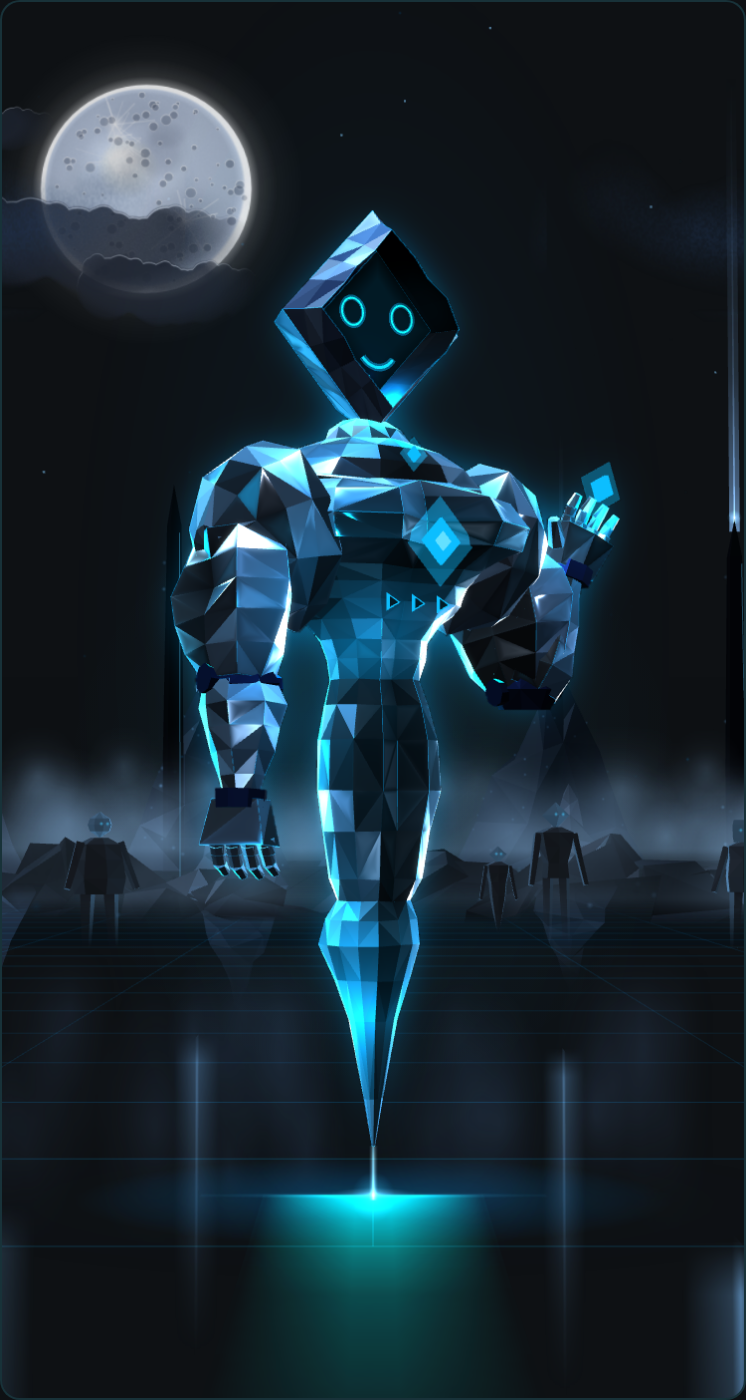
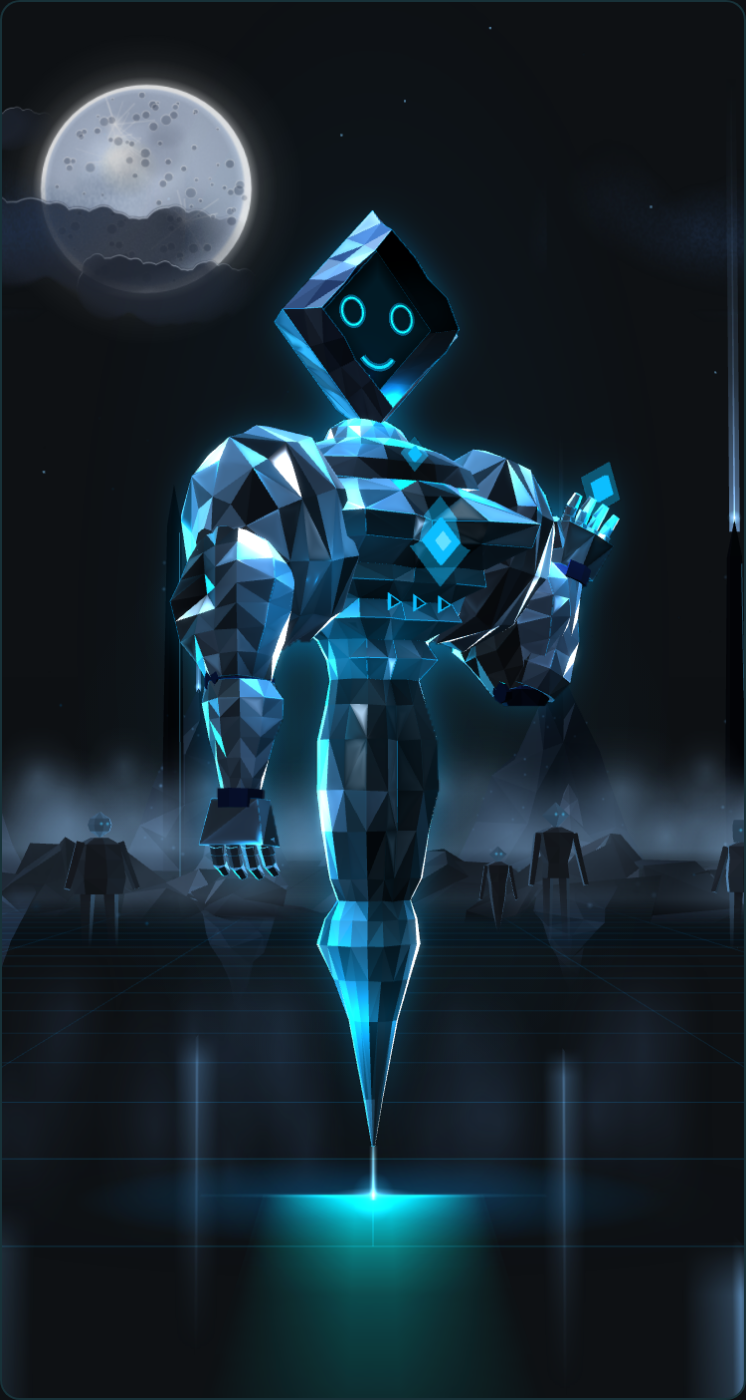
mrmah3d R105: capped and pumped muscle bellies — 18-side torso and 12-side limbs so pecs, blocks and bicep can be round; capped deltoid, peaked biceps and triceps, brachialis wedge, inset ab blocks, deeper insertions
Six grayscale increments judged as close-ups beside the reference's arm
and torso. The deltoid is a spherical cap (eight rings, a rounder fuller
belly that tucks under into the arm, a 0.22 anterior lobe over the pec,
0.12 grooves between the heads). The upper arm is twelve sides on seven
rings with the bicep and triceps as PEAKS (sin^1.6 / sin^1.4 bellies),
a 0.30 brachialis wedge, a 0.36 biceps/triceps groove, an under-delt
valley all the way round and elbow compression; the forearm is twelve
sides at three quarters of the upper arm's radius with peaked extensor
and flexor bellies, a 0.20 channel and wrist compression. The torso is
eighteen sides so the pec lobes are domes with a sternum trench (a lobe
on 14 sides was one flat facet), the upper pec rounds off toward the
clavicle, the abdominal blocks are 0.42 bulges against -0.06 inset
creases carrying a 0.80 cavity, the lats sweep (latK up to 0.46), the
traps 0.72, serratus relief, calf bellies 0.26, dome 0.55. Lobe heights
came DOWN as the sides went up — resolution was the fault, not
amplitude.

Tests 342/342 (three regexes loosened), verify 150/150. Grayscale front,
back and three-quarter for the male, front and back for the female, the
torso and shoulder-arm close-ups beside the reference, one platinum-wrap
check, a previous-vs-new sheet and the capped-muscle scores in
validation/mrmah3d/r105/.

Claude-Session: https://claude.ai/code/session_01PFdimckBkTJSzz58pBNFUm

Changed region(s): [[0.2158, 0.2764, 0.8016, 0.8293]]

diff --git a/mrmah3d/core/character/proportions.js b/mrmah3d/core/character/proportions.js
@@ -334,7 +334,7 @@ function chestShape(k) {
        is a mass with real front-to-back projection, and the sternum falls
        away between the two; the lats flare a little more under the arm. */
     var sternum = -lobe(a, 0, 0.38) * 0.360;   /* R103: deeper */
-    var pec = (lobe(a, 0.70, 0.52) + lobe(a, -0.70, 0.52)) * 0.520;   /* R101: a deeper shelf */
+    var pec = (lobe(a, 0.70, 0.55) + lobe(a, -0.70, 0.55)) * 0.600;   /* R105: a rounder, fuller belly */   /* R101: a deeper shelf */
     /* R97: the lats — the ribcage's side planes swell so the V reads from
        the front AND the back; the back itself is flattened, grooved down the
        spine and carries a pair of erector / lat planes either side of it. */
@@ -344,7 +344,7 @@ function chestShape(k) {
     var erector = (lobe(a, Math.PI - 0.42, 0.30) + lobe(a, -Math.PI + 0.42, 0.30)) * 0.100;   /* R102: 0.06 -> 0.10 */
     /* R102: the pec / deltoid junction and the outer pec insertion — a groove at
        the armpit line so the pec ends in shadow against the shoulder */
-    var insertion = -(lobe(a, 1.22, 0.16) + lobe(a, -1.22, 0.16)) * 0.030;   /* R103: the delt now overlaps the pec; a deep cut here read as a socket */
+    var insertion = -(lobe(a, 1.22, 0.20) + lobe(a, -1.22, 0.20)) * 0.080;   /* R103: the delt now overlaps the pec; a deep cut here read as a socket */
     return 1 + (sternum + pec + lat + back + spine + erector + insertion) * k;
   };
 }
@@ -368,15 +368,16 @@ function coreShape(k, rectusK, latK) {
   var rk = rectusK == null ? 0.120 : rectusK;
   var lk = latK == null ? 0 : latK;
   return function (a) {
-    var linea = -lobe(a, 0, 0.34) * 0.300;   /* R100: a deeper channel; R102: deeper */
+    var linea = -lobe(a, 0, 0.34) * 0.340;   /* R100: a deeper channel; R102: deeper */
     var rectus = (lobe(a, 0.52, 0.44) + lobe(a, -0.52, 0.44)) * rk;
     var oblique = (lobe(a, 1.20, 0.48) + lobe(a, -1.20, 0.48)) * 0.080;
     var obliqueGroove = -(lobe(a, 0.98, 0.16) + lobe(a, -0.98, 0.16)) * 0.100 * (lk > 0 ? 1 : 0.5);   /* R102 */
     var lat = (lobe(a, Math.PI / 2 + 0.22, 0.58) + lobe(a, -Math.PI / 2 - 0.22, 0.58)) * lk;
+    var serratus = (lobe(a, 1.02, 0.13) + lobe(a, -1.02, 0.13)) * 0.070 * Math.min(1, lk / 0.3);   /* R105: the teeth under the pec, as relief */
     var back = lobe(a, Math.PI, 0.95) * -0.085;
     var spine = -lobe(a, Math.PI, 0.20) * 0.150;   /* R102: 0.06 -> 0.11 */
     var erector = (lobe(a, Math.PI - 0.36, 0.28) + lobe(a, -Math.PI + 0.36, 0.28)) * 0.080;   /* R102: 0.045 -> 0.08 */
-    return 1 + (linea + rectus + oblique + obliqueGroove + lat + back + spine + erector) * k;
+    return 1 + (linea + rectus + oblique + obliqueGroove + lat + serratus + back + spine + erector) * k;
   };
 }
 
@@ -568,7 +569,7 @@ function calfShape(k) {
   return function (a) {
     var ridge = lobe(a, 0, 0.26) * 0.060;
     var shin = -(lobe(a, 0.55, 0.28) + lobe(a, -0.55, 0.28)) * 0.060;
-    var bellies = (lobe(a, Math.PI - 0.62, 0.50) + lobe(a, -Math.PI + 0.62, 0.50)) * 0.200;
+    var bellies = (lobe(a, Math.PI - 0.62, 0.50) + lobe(a, -Math.PI + 0.62, 0.50)) * 0.260;
     var cleft = -lobe(a, Math.PI, 0.18) * 0.080;
     return 1 + (ridge + shin + bellies + cleft) * k;
   };
@@ -615,7 +616,7 @@ function clavicleShape(k) {
   return function (a) {
     var hollow = -lobe(a, 0, 0.60) * 0.160;
     var collar = (lobe(a, 0.95, 0.50) + lobe(a, -0.95, 0.50)) * 0.150;
-    var traps = (lobe(a, Math.PI - 0.7, 0.60) + lobe(a, -Math.PI + 0.7, 0.60)) * 0.600;   /* R99: the traps climb to carry the head; R100: higher still; R101: undeniable */
+    var traps = (lobe(a, Math.PI - 0.7, 0.60) + lobe(a, -Math.PI + 0.7, 0.60)) * 0.720;   /* R99: the traps climb to carry the head; R100: higher still; R101: undeniable */
     /* R97: a SHOULDER SHELF at the sides, so the torso's own line runs out
        under the deltoid cap and the cap grows out of the trapezius instead of
        sitting on it — the trap -> delt continuity the brief asks for. */
@@ -678,7 +679,7 @@ export var TORSO = {
      averaged away entirely — the shaping was there in the numbers and absent
      from the mesh. 14 puts a vertex within 0.22 radians of every lobe centre
      for the cost of two more columns of faces. */
-  sides: 14,
+  sides: 18,   /* R105: a pec dome, a rectus block and an oblique each need vertices to be ROUND; at 14 a lobe was one flat facet */
   /* A SMALL lift away from the black end — a third of the head's, half the
      arms'. The body is the one part that should keep the black-heavy weighting,
      because that is what makes it read as a dark crystalline mass. But with the
@@ -880,7 +881,7 @@ export var TORSO = {
       shape: quadShape(0.90), zoneAt: quadZone(0) },
     /* R97: the quad's SHELF — the mass rounds over under the belt instead
        of meeting it in a straight line, which is the muscle-belly read. */
-    { y: 1.400, w: 0.160, d: 0.146, facet: 0.0050, crystal: 0.0300, crystalY: 0.0080, hero: 0.10,
+    { y: 1.400, w: 0.156, d: 0.142, facet: 0.0050, crystal: 0.0300, crystalY: 0.0080, hero: 0.10,
       shape: quadShape(0.60), zoneAt: quadZone(0) },
     /* THE BELT — the waist. The deepest concavity on the character, and the
        line that separates the torso from the single quad. Re-measured on the
@@ -904,15 +905,15 @@ export var TORSO = {
        nearly doubled on the two rings above the pinch — the lat is a
        silhouette driver, not a flank detail. */
     { y: 1.545, w: 0.160, d: 0.144, facet: 0.0040, crystal: 0.0220, crystalY: 0.0050,
-      shape: coreShape(1.0, 0.17), hero: 0.08, zoneAt: coreZone(1) },
-    { y: 1.605, w: 0.180, d: 0.160, facet: -0.0040, crystal: 0.0220, crystalY: 0.0050,
-      shape: coreShape(1.0, 0.08, 0.04), hero: 0.03, zoneAt: coreZone(1), cav: 0.40 },   /* R102: abdominal crease */
-    { y: 1.665, w: 0.212, d: 0.182, facet: 0.0040, crystal: 0.0240, crystalY: 0.0050,
-      shape: coreShape(0.95, 0.17, 0.18), hero: 0.08, zoneAt: coreZone(2) },
-    { y: 1.725, w: 0.280, d: 0.220, facet: -0.0040, crystal: 0.0240, crystalY: 0.0050,
-      shape: coreShape(0.90, 0.08, 0.32), hero: 0.03, zoneAt: coreZone(2), cav: 0.40 },   /* R102: abdominal crease */
+      shape: coreShape(1.0, 0.42), hero: 0.08, zoneAt: coreZone(1) },   /* R105: BLOCKS — bulge 0.42 against an inset crease (-0.06) */
+    { y: 1.605, w: 0.188, d: 0.164, facet: -0.0040, crystal: 0.0220, crystalY: 0.0050,
+      shape: coreShape(1.0, -0.06, 0.04), hero: 0.03, zoneAt: coreZone(1), cav: 0.80 },   /* R102: abdominal crease */
+    { y: 1.665, w: 0.230, d: 0.190, facet: 0.0040, crystal: 0.0240, crystalY: 0.0050,
+      shape: coreShape(0.95, 0.42, 0.26), hero: 0.08, zoneAt: coreZone(2) },
+    { y: 1.725, w: 0.292, d: 0.226, facet: -0.0040, crystal: 0.0240, crystalY: 0.0050,
+      shape: coreShape(0.90, -0.06, 0.40), hero: 0.03, zoneAt: coreZone(2), cav: 0.80 },   /* R102: abdominal crease */
     { y: 1.780, w: 0.306, d: 0.240, facet: 0.0040, crystal: 0.0260, crystalY: 0.0060,
-      shape: coreShape(0.85, 0.16, 0.42), hero: 0.08, zoneAt: coreZone(3) },
+      shape: coreShape(0.85, 0.42, 0.46), hero: 0.08, zoneAt: coreZone(3) },
     /* R97 — THE LOWER PEC TURN: a crease ring where the chest shelf ends and
        a belly ring above it, so the pectoral is a mass with a lower edge
        that falls into shadow rather than a plane that fades into the abs. */
@@ -922,7 +923,7 @@ export var TORSO = {
        comes in so the shelf overhangs it, and that ring takes its own dark
        zone (pecUnderZone). */
     { y: 1.830, w: 0.304, d: 0.236, facet: -0.0060, crystal: 0.0300, crystalY: 0.0080,
-      shape: chestShape(0.62), zoneAt: pecUnderZone, cav: 0.50 },   /* R103: the under-pec crease pulls IN (d 0.252 -> 0.232) so the shelf overhangs it; the lat block is wider */   /* R102: 0.272 -> 0.282, the top of the lat block; the under-pec crease is a cavity */
+      shape: chestShape(0.62), zoneAt: pecUnderZone, cav: 0.60 },   /* R103: the under-pec crease pulls IN (d 0.252 -> 0.232) so the shelf overhangs it; the lat block is wider */   /* R102: 0.272 -> 0.282, the top of the lat block; the under-pec crease is a cavity */
     /* R103 — THE CHEST PROJECTS: the chest rings' front-to-back radius rises
        another 8% and the pec lobe with it, so the pectoral is a shelf that
        overhangs the crease ring under it. */
@@ -938,24 +939,24 @@ export var TORSO = {
        shoulder line at 2.120 the slope is 41 degrees, the cap's crest meets
        it, and the neck is embedded in a rising upper torso. The head does
        not move. */
-    { y: 2.050, w: 0.330, d: 0.322, facet: -0.0045, crystal: 0.0300, crystalY: 0.0060,
-      shape: chestShape(0.80), hero: 0.40, zoneAt: pecZone(1) },
+    { y: 2.050, w: 0.330, d: 0.290, facet: -0.0045, crystal: 0.0300, crystalY: 0.0060,
+      shape: chestShape(0.45), hero: 0.40, zoneAt: pecZone(1) },   /* R105: the upper pec ROUNDS OFF toward the clavicle (0.80 -> 0.62) instead of running flat into it */
     /* R100 — the groove under the clavicle (subclavicleShape): its own dark,
        uncoated zone, so the collarbone above it reads as a bar with shadow
        beneath. */
-    { y: 2.100, w: 0.328, d: 0.262, facet: 0.0040, crystal: 0.0200, crystalY: 0.0040,
+    { y: 2.100, w: 0.328, d: 0.250, facet: 0.0040, crystal: 0.0200, crystalY: 0.0040,
       shape: subclavicleShape(1.0), hero: 0.20, zoneAt: pecZone(1), coat: 0.55 },
     /* THE SHOULDER LINE — collarbones across the front, trapezius behind.
        R100: the thin band just under it is the groove's dark zone, so the
        collarbone reads as a bar with a hairline of shadow beneath — not a
        stripe across the chest. */
-    { y: 2.120, w: 0.330, d: 0.252, facet: 0.0055, crystal: 0.0340, crystalY: 0.0060,
+    { y: 2.120, w: 0.330, d: 0.240, facet: 0.0055, crystal: 0.0340, crystalY: 0.0060,
       shape: clavicleShape(1.0), dip: 0.030, hero: 0.32, zoneAt: subclavicleZone, coat: 0.30 },   /* R99: the shelf blew white; the godform reference's clavicle is dark under a lit shoulder */
     /* R100 — THE TRAPEZIUS RING: between the shoulder line and the neck's
        base, so the traps rise diagonally toward the neck across two bands
        instead of one steep step, with the trap lobes at full strength.
        R103: halfway up the 41-degree slope. */
-    { y: 2.165, w: 0.280, d: 0.222, facet: -0.0050, crystal: 0.0260, crystalY: 0.0050,
+    { y: 2.165, w: 0.300, d: 0.230, facet: -0.0050, crystal: 0.0260, crystalY: 0.0050,
       shape: clavicleShape(0.85), hero: 0.04, zoneAt: trapZone, coat: 0.12 },   /* R101: deeper behind, the upper back's thickness */   /* a slope, not a shelf: first cut at 2.190 / 0.282 drew a flat ledge */
     /* THE CROWN — the upper chest rising beside the neck to meet the head.
 
@@ -1201,7 +1202,7 @@ export var ARMS = {
     elbow: [-0.585, 1.455, 0.10],   /* R103: the reference's lowered arm hangs STRAIGHT and close — elbow in, shorter */
     wrist: [-0.610, 1.105, 0.14],
     upperRadius: 0.150,   /* R103: 0.160 -> 0.150, the arm was as wide as the lat at the elbow */
-    foreRadius: 0.124,
+    foreRadius: 0.112,   /* R105: the reference forearm is three quarters of the upper arm */
     wristRadius: 0.074
   },
   left: {                         /* viewer's RIGHT — the raised arm */
@@ -1219,7 +1220,7 @@ export var ARMS = {
     elbow: [0.565, 1.465, 0.11],
     wrist: [0.720, 1.860, 0.15],
     upperRadius: 0.150,   /* R103: 0.160 -> 0.150, the arm was as wide as the lat at the elbow */
-    foreRadius: 0.124,
+    foreRadius: 0.112,   /* R105: the reference forearm is three quarters of the upper arm */
     wristRadius: 0.074
   },
 
@@ -1294,7 +1295,7 @@ export var ARMS = {
        clearly narrower at the joint, which is what makes the elbow read as a
        hinge between two masses rather than a bend in a pipe. */
     upper: function (t) {   /* R104: swell 0.28 -> 0.20, the arm hangs as a column from the front; the bellies read in the three-quarter */
-      return 0.92 + Math.sin(Math.pow(t, 0.85) * Math.PI) * 0.20 - t * 0.08;
+      return 0.92 + Math.pow(Math.sin(Math.pow(t, 0.85) * Math.PI), 1.3) * 0.24 - t * 0.08;   /* R105: a sharper peak */
     },
     /* Picks up close to where the upper arm ended — a step at the elbow reads
        as an error rather than as a joint — then swells just below it and tapers
@@ -1326,8 +1327,8 @@ export var ARMS = {
        limbSideDirection); the lateral tricep ridge and the radial forearm
        ridge sit on the OUTER side, which is -inner. */
     upper: function (t, d, inner) {
-      var belly = Math.sin(Math.pow(t, 0.82) * Math.PI);
-      var rear = Math.sin(Math.pow(t, 1.30) * Math.PI);
+      var belly = Math.pow(Math.sin(Math.pow(t, 0.82) * Math.PI), 1.6);   /* R105: a PEAK, not a broad swell — the bicep is a belly under tension */
+      var rear = Math.pow(Math.sin(Math.pow(t, 1.30) * Math.PI), 1.4);
       var outer = -(inner || 1);
       /* R97: BELLIES, not bulges. The bicep peaks at a third of the way
          down at nearly a third of the radius, the tricep — broader, lower —
@@ -1338,7 +1339,7 @@ export var ARMS = {
          its long-head fullness and gains a LATERAL-HEAD ridge on the outer
          arm, the horseshoe's outer arm converging toward the elbow. */
       var bicep = bump(d, 0, 0.62) * 0.520 * belly;   /* R101: the male standard — a fuller belly */
-      var tricep = bump(d, Math.PI, 1.10) * 0.460 * rear;   /* R99: the tricep is a volume of its own; R101: thicker */
+      var tricep = bump(d, Math.PI, 1.10) * 0.480 * rear;   /* R99: the tricep is a volume of its own; R101: thicker */
       var lateralHead = bump(d, outer * (Math.PI - 0.95), 0.40) * 0.240 * Math.sin(Math.pow(t, 1.1) * Math.PI);   /* R101: the horseshoe's outer arm */
       /* the groove between them, down each side of the arm */
       /* R98: the groove is deepest through the upper half, and in the lower
@@ -1349,14 +1350,14 @@ export var ARMS = {
       low = low * low * (3 - 2 * low);
       var sides = bump(d, Math.PI / 2, 0.42) + bump(d, -Math.PI / 2, 0.42);
       var groove = sides * -0.360 * belly * (1 - low);   /* R99: a deeper valley between the two; R100: deeper again; R101; R102: 0.16 -> 0.20, the biceps/triceps boundary is a cut */
-      var brachialis = sides * 0.240 * low * Math.sin(Math.min(1, t / 0.92) * Math.PI);   /* R101: visible between bicep and tricep above the elbow */
+      var brachialis = sides * 0.300 * low * Math.sin(Math.min(1, t / 0.92) * Math.PI);   /* R101: visible between bicep and tricep above the elbow */
       /* R102: the DELTOID INSERTION — a valley across the top of the arm
          under the cap, so the shoulder is separated from the arm by a
          change of depth (the brief's "visible insertion under the delt
          cap"), and ELBOW COMPRESSION — the arm narrows into the joint on the
          front where the biceps' tendon runs. */
-      var insertion = -bump(d, 0, 0.55) * 0.110 * (1 - Math.min(1, t / 0.22)) * (1 - Math.min(1, t / 0.22));
-      var elbow = -bump(d, 0, 0.60) * 0.090 * Math.pow(Math.max(0, (t - 0.80) / 0.20), 2);
+      var insertion = -(0.10 + 0.14 * bump(d, 0, 0.55)) * (1 - Math.min(1, t / 0.22)) * (1 - Math.min(1, t / 0.22));   /* R105: the under-delt valley runs all the way round; deeper on the front */
+      var elbow = -bump(d, 0, 0.60) * 0.130 * Math.pow(Math.max(0, (t - 0.80) / 0.20), 2);
       return 1 + bicep + tricep + lateralHead + groove + brachialis + insertion + elbow;
     },
     fore: function (t, d, inner) {
@@ -1368,8 +1369,8 @@ export var ARMS = {
       /* R98: fuller extensor group high on the outer forearm, flexors
          inboard, and a shallow groove between them down the ulna so the two
          groups read as two under the coat. */
-      var flexor = bump(d, 0.45, 0.85) * 0.320 * swell;
-      var extensor = bump(d, Math.PI - 0.55, 0.95) * 0.310 * Math.sin(Math.pow(t, 0.45) * Math.PI);
+      var flexor = bump(d, 0.45, 0.85) * 0.360 * swell;
+      var extensor = bump(d, Math.PI - 0.55, 0.95) * 0.360 * Math.pow(Math.sin(Math.pow(t, 0.45) * Math.PI), 1.4);
       var ulna = bump(d, -Math.PI / 2 - 0.2, 0.40) * -0.070 * swell;
       /* R100: the RADIAL ridge — the brachioradialis running down the outer
          forearm from the elbow, fullest in the upper third and fading to
@@ -1379,8 +1380,8 @@ export var ARMS = {
       /* R102: the FLEXOR / EXTENSOR CHANNEL — a groove between the two groups
          on the inner side, and the WRIST TENDONS: the forearm flattens toward
          the wrist on the front so the flexor tendons read as a narrowing */
-      var channel = -bump(d, -outer * 0.95, 0.26) * 0.140 * swell;
-      var wrist = -bump(d, 0.20, 0.55) * 0.070 * Math.pow(Math.max(0, (t - 0.72) / 0.28), 2);
+      var channel = -bump(d, -outer * 0.95, 0.26) * 0.200 * swell;
+      var wrist = -bump(d, 0.20, 0.55) * 0.110 * Math.pow(Math.max(0, (t - 0.72) / 0.28), 2);
       return 1 + flexor + extensor + ulna + radial + channel + wrist;
     }
   }

diff --git a/mrmah3d/core/character/limbs.js b/mrmah3d/core/character/limbs.js
@@ -321,7 +321,7 @@ function buildArm(materials, spec, options) {
      and the arm stays a cone with a kink in it. */
   var upperGeo = segment(
     [0, 0, 0], elbow.clone().sub(shoulder).toArray(),
-    spec.upperRadius, spec.foreRadius * 1.02, 8,
+    spec.upperRadius, spec.foreRadius * 1.02, 12,   /* R105: twelve sides — a belly needs vertices to be round */
     /* R90: depthRatio goes above 1 and the cross-section is now SHAPED.
 
        The upper arm is deeper front-to-back than it is wide, because that is
@@ -337,7 +337,7 @@ function buildArm(materials, spec, options) {
        nothing to work on — and read as a quilt beside the reference. */
     /* R99: deeper front-to-back (1.12 -> 1.18) so the bicep and tricep are
        two volumes the silhouette shows from the side, not two colours. */
-    { depthRatio: 1.18, crystal: 0.045, steps: 5,
+    { depthRatio: 1.18, crystal: 0.045, steps: 7,   /* R105: seven rings so the belly can PEAK */
       profile: ARMS_.profiles.upper, shape: function (t, d) { return ARMS_.shapes.upper(t, d, upperInner); }, lift: ARMS_.classLift,
       classes: REGIONS.UPPER_ARM.classes, columns: true, zoneAt: armZone(REGIONS.UPPER_ARM.classes, upperInner),
       coat: REGIONS.UPPER_ARM.coat,
@@ -362,10 +362,10 @@ function buildArm(materials, spec, options) {
   var foreVec = wrist.clone().sub(elbow);
   var foreGeo = segment(
     [0, 0, 0], foreVec.toArray(),
-    spec.foreRadius, spec.wristRadius, 8,
+    spec.foreRadius, spec.wristRadius, 12,
     /* R98: five steps so the extensor belly just under the elbow has a ring
        to peak on and the taper into the wrist has two to fall through. */
-    { depthRatio: 1.06, crystal: 0.040, steps: 5,
+    { depthRatio: 1.06, crystal: 0.040, steps: 6,
       profile: ARMS_.profiles.fore, shape: function (t, d) { return ARMS_.shapes.fore(t, d, foreInner); }, lift: ARMS_.classLift,
       classes: REGIONS.FOREARM.classes, columns: true, zoneAt: armZone(REGIONS.FOREARM.classes, foreInner),
       coat: REGIONS.FOREARM.coat }
@@ -378,7 +378,7 @@ function buildArm(materials, spec, options) {
      a cuff ring; both hide the segments' end discs — the flat pale facet that
      showed at every elbow — and read as machined joints in the crystal. Drawn
      in the cavity material (dark, barely reflective), no edge lines. */
-  var eR = spec.foreRadius * 0.98;
+  var eR = spec.foreRadius * 0.88;   /* R105: the knob read as a block */
   var elbowGeo = segment([0, -eR * 0.55, 0], [0, eR * 0.55, 0], eR, eR, 8,
     { depthRatio: 1.0, crystal: 0.015, steps: 2,
       profile: function (t) { return 0.70 + Math.sin(t * Math.PI) * 0.30; } });   /* R99: flush with the tube, not proud of it */
@@ -421,7 +421,7 @@ function buildArm(materials, spec, options) {
   elbowJoint.add(wristJoint);
 
   /* The wrist cuff, in the wrist's own frame so it rings the forearm's end. */
-  var cR = spec.wristRadius * 1.10;   /* R99: 1.22 -> 1.10 — in silhouette the cuff read as a block on the wrist */
+  var cR = spec.wristRadius * 1.00;   /* R99: 1.22 -> 1.10; R105: 1.00 */
   var cuffGeo = segment([0, -0.030, 0], [0, 0.026, 0], cR, cR * 0.96, 8,
     { depthRatio: 1.0, crystal: 0.01, steps: 1 });
   var cuff = new Mesh(cuffGeo, materials.joint || materials.cavity);

diff --git a/tests/mrmah3d.test.js b/tests/mrmah3d.test.js
@@ -766,7 +766,7 @@ if (exists('CLAUDE.md')) {
   ok('R100-trapezius-ring-and-zone', /function trapZone/.test(propsSrc) && /zoneAt: trapZone/.test(propsSrc));
   ok('R100-clavicle-groove', /function subclavicleShape/.test(propsSrc) && /function subclavicleZone/.test(propsSrc) && /zoneAt: subclavicleZone/.test(propsSrc));
   ok('R100-serratus-saw', /tooth/.test(propsSrc) && /SERRATUS/.test(propsSrc));
-  ok('R100-bicep-crest-and-lateral-head', /bump\(d, 0, 0\.62\) \* 0\.[3-5][0-9]0/.test(propsSrc) && /lateralHead/.test(propsSrc));
+  ok('R100-bicep-crest-and-lateral-head', /bump\(d, 0, 0\.62\) \* 0\.[3-6][0-9]0/.test(propsSrc) && /lateralHead/.test(propsSrc));
   ok('R100-radial-forearm-ridge', /var radial = bump\(d, outer \* 0\.95/.test(propsSrc) && /ARMS_\.shapes\.fore\(t, d, foreInner\)/.test(limbs));
   ok('R100-cap-shadow-on-the-arm', /t < 0\.17 && ad > 0\.55/.test(limbs));
   ok('R100-hand-knuckles', /KNUCKLE/.test(limbs) && /spec\.digitRadius \* 1\.22/.test(limbs));
@@ -796,12 +796,12 @@ if (exists('CLAUDE.md')) {
   const neckTop = Number((propsSrc.match(/\{ y: (2\.3[0-9]{2}), w: 0\.010/) || [])[1]);
   ok('R101-head-seated-in-the-neck', neckTop > base && neckTop - base < 0.09, 'head base ' + base.toFixed(3) + ', neck closes at ' + neckTop);
   /* the male arm standard: bigger cap, fuller bicep, lateral head, brachialis, brachioradialis */
-  ok('R101-male-arm-standard', /r0: 0\.2[6-9][0-9]/.test(body) && /bump\(d, 0, 0\.62\) \* 0\.[45][0-9]0/.test(propsSrc) &&
+  ok('R101-male-arm-standard', /r0: 0\.2[6-9][0-9]/.test(body) && /bump\(d, 0, 0\.62\) \* 0\.[4-6][0-9]0/.test(propsSrc) &&
     /var lateralHead = bump\(d, outer \* \(Math\.PI - 0\.95\), 0\.40\) \* 0\.[12][0-9]0/.test(propsSrc) && /BRACHIORADIALIS/.test(propsSrc) &&
     /upperRadius: 0\.1[5-6]0/.test(propsSrc));
   /* three deltoid heads as FORM: front, rear, lateral crest and two grooves */
   /* R102: the grooves between the heads are twice as deep (0.045 -> 0.090) */
-  ok('R101-deltoid-heads-as-form', /var lateral = 0\.06/.test(body) && /var grooves = -0\.0[4-9]/.test(body));
+  ok('R101-deltoid-heads-as-form', /var lateral = 0\.06/.test(body) && /var grooves = -0\.[01][0-9]/.test(body));
   /* the crystal's own hue is canonical; the theme is light, not paint */
   /* R102: the facets' own hue is a PALETTE constant (cool neutral platinum,
      `PALETTE.crystalTint`), never the theme (`uTint`) and no longer the

diff --git a/mrmah3d/core/character/body.js b/mrmah3d/core/character/body.js
@@ -354,9 +354,9 @@ export function buildBody(materials, P) {
     var deltoidProfile = function (t) {
       var root = Math.min(1, t / 0.28);
       var endT = Math.max(0, (t - 0.75) / 0.25);
-      var end = 1 - 0.55 * endT * endT * (3 - 2 * endT);
+      var end = 1 - 0.62 * endT * endT * (3 - 2 * endT);
       return (0.28 + 0.72 * root * root * (3 - 2 * root)) * end *
-             (1 + Math.sin(Math.pow(t, 1.3) * Math.PI) * 0.30);   /* R103: 0.36 -> 0.30, the crest stood above the trap slope */
+             (1 + Math.pow(Math.sin(Math.pow(t, 1.15) * Math.PI), 0.8) * 0.50);   /* R105: a CAP — rounder, fuller belly with the axis lowered in R103 */
     };
     /* R94 — A DOME FROM A HANDFUL OF PLANES, drawn by its surfaces.
 
@@ -371,7 +371,7 @@ export function buildBody(materials, P) {
     var geo = segment(
       inner, outer,
       deltoidR0, deltoidR1, 10,
-      { depthRatio: 1.0, crystal: 0.050, steps: 6, lift: ARMS_.deltoidLift,
+      { depthRatio: 1.0, crystal: 0.050, steps: 8, lift: ARMS_.deltoidLift,   /* R105: eight rings, a spherical cap */
         classes: REGIONS.DELT.classes,
         profile: deltoidProfile,
         /* R97 — THREE HEADS. `d` is the angle from the cap's front (+z): a
@@ -389,10 +389,10 @@ export function buildBody(materials, P) {
           /* R102: the three heads are CARVED — the grooves between them are
              twice as deep (and the cavity term in the shader keeps them
              dark), the rear delt is fuller for the rear views. */
-          var front = 0.18 * Math.exp(-Math.pow(d / 0.66, 2));   /* R103: the anterior delt overlaps the pec */
+          var front = 0.22 * Math.exp(-Math.pow(d / 0.66, 2));   /* R103: the anterior delt overlaps the pec; R105: fuller */
           var rear = 0.12 * Math.exp(-Math.pow((ad - Math.PI) / 0.76, 2));
           var lateral = 0.06 * Math.exp(-Math.pow((ad - Math.PI / 2) / 0.45, 2));
-          var grooves = -0.090 * (Math.exp(-Math.pow((ad - 0.95) / 0.20, 2)) + Math.exp(-Math.pow((ad - 2.25) / 0.20, 2)));
+          var grooves = -0.120 * (Math.exp(-Math.pow((ad - 0.95) / 0.20, 2)) + Math.exp(-Math.pow((ad - 2.25) / 0.20, 2)));
           return 1 + (front + rear + lateral + grooves) * belly;
         },
         zoneAt: function (d, t) {

diff --git a/mrmah3d/core/character/variants.js b/mrmah3d/core/character/variants.js
@@ -143,13 +143,13 @@ function femaleProportions() {
       shoulder: [-0.355, 1.935, 0.014],
       elbow: [-0.455, 1.390, 0.10],
       wrist: [-0.410, 0.985, 0.14],
-      upperRadius: 0.116, foreRadius: 0.090, wristRadius: 0.056
+      upperRadius: 0.116, foreRadius: 0.084, wristRadius: 0.056
     },
     left: {
       shoulder: [0.355, 1.935, 0.014],
       elbow: [0.455, 1.430, 0.11],
       wrist: [0.560, 2.110, 0.15],
-      upperRadius: 0.116, foreRadius: 0.090, wristRadius: 0.056
+      upperRadius: 0.116, foreRadius: 0.084, wristRadius: 0.056
     },
     /* the deltoid: a round cap that encloses the arm's top — R102: larger; R103: rooted deeper and lower with the girdle */
     deltoid: { innerX: 0.180, innerY: 1.990, outerX: 0.490, outerY: 1.910, r0: 0.215 },   /* R104: wider, muscular shoulders */

diff --git a/mrmah3d/core/character/materials.js b/mrmah3d/core/character/materials.js
@@ -477,7 +477,7 @@ export function createCrystalMaterials(options) {
     innerDark: 0.72,
     /* R96 — the facet dome (crystal-shader.js): every large plane grades from
        its edge to its centre, which is what Reference A's glossy planes are. */
-    dome: 0.42,
+    dome: 0.55,   /* R105: the gloss wraps each belly */
     /* R94 — the taper's internal light (see crystal-shader.js). Sapphire, not
        cyan: the reference's taper is a saturated royal blue lit from within,
        and the cyan belongs to the edges. The source sits a third of the way up

diff --git a/CLAUDE.md b/CLAUDE.md
@@ -1353,6 +1353,27 @@ only stopped when NEW was visibly different from CURRENT — waist 0.127 ->
 (shoulder over waist 3.56 against its 2.71). When a brief says "morph",
 the previous pass is the thing to beat.
 
+### A belly needs vertices to be round (R105)
+
+Deeper lobes on the same rings did not make a muscle: a pec lobe half a
+radian wide on a 14-sided ring lands on two vertices and is a flat facet
+however tall it is, and an 8-sided upper arm with a 0.62 bicep read as a
+lumpy boulder in the close-up. The torso is 18 sides now and the limbs 12,
+with seven rings on the upper arm and eight on the deltoid, and the lobes
+came DOWN as the sides went up — bicep 0.62 -> 0.52, groove 0.42 -> 0.36 —
+because a round tube needs less exaggeration to show a belly. The peak is
+made by the profile along the limb (sin^1.6 for the bicep, sin^1.4 for the
+triceps), not by the lobe's height. Check the close-up against the
+reference's arm before touching a lobe: the fault was resolution, and no
+amplitude fixes resolution.
+
+### A block is a bulge against an INSET, not against a smaller bulge
+
+Three abdominal pairs at 0.24 / 0.06 read as nothing in grayscale; at
+0.42 against a -0.06 crease carrying a 0.80 cavity they read as rows. The
+crease has to go below the ring's nominal surface for the block above it
+to have a lower edge.
+
 ### Reference segmentation: read the grid
 
 Every automatic mask of the R102 references failed — brightness took the
